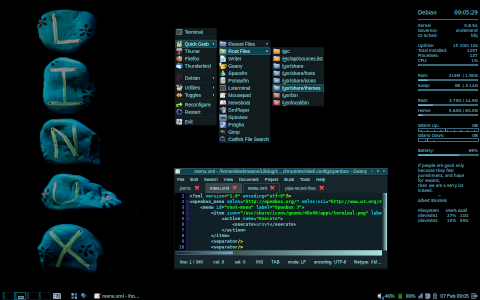
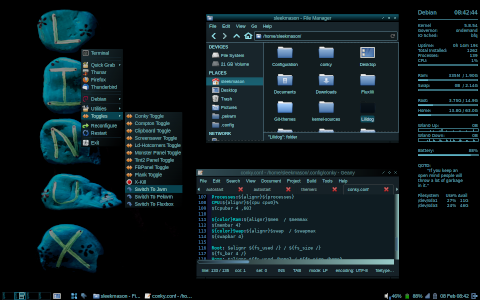
Changed Openbox cover to reflect new theme

diff --git a/README.md b/README.md
@@ -23,7 +23,7 @@ For the Unstable build: https://github.com/sleekmason/Lilidog-buster-w-custom-ke
 ### Instructions on building your own ISO of Lilidog are at the end of this page. Easy peasy.
 
 ### Openbox
-[![Openbox-2-7.png](https://i.postimg.cc/QCkrcK4k/Openbox-2-7.png)](https://postimg.cc/V06T8vcd)
+[![Openbox-gradient-2-7-21.png](https://i.postimg.cc/qBKYdxQN/Openbox-gradient-2-7-21.png)](https://postimg.cc/Wt2SGrBV)
 
 ### Fluxbox
 [![Fluxbox-1-26-21.png](https://i.postimg.cc/x1kyjPvP/Fluxbox-1-26-21.png)](https://postimg.cc/hXB7pT3J)
